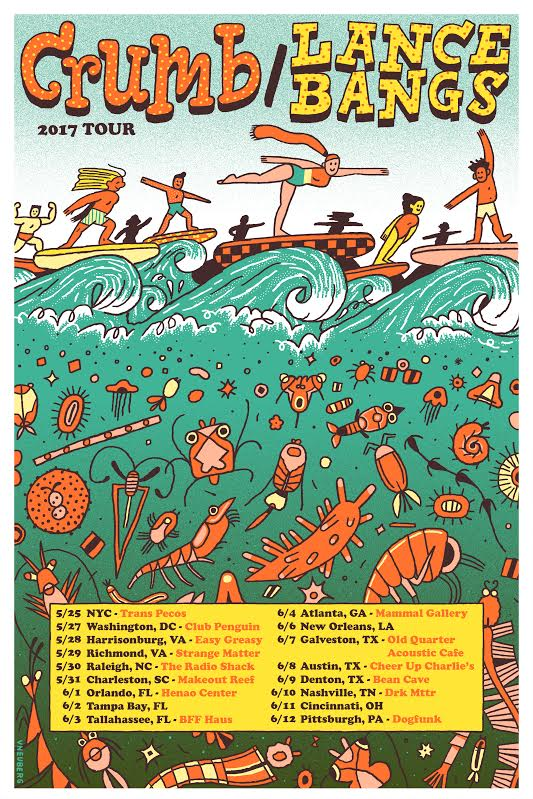
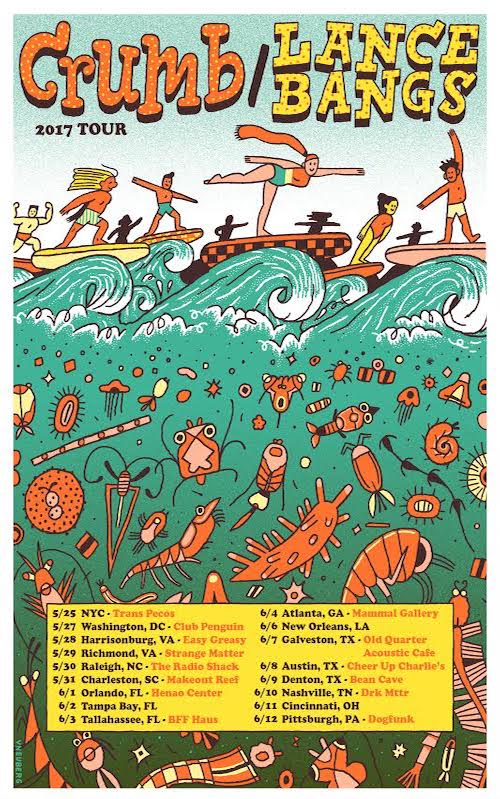
added cassette, resized images

diff --git a/index.html b/index.html
@@ -48,9 +48,11 @@
                 <iframe width="560" height="315" src="https://www.youtube.com/embed/BqnG_Ei35JE" frameborder="0" allow="autoplay; encrypted-media" allowfullscreen></iframe>
                 <h2>"Bones"</h2>
                 <iframe width="560" height="315" src="https://www.youtube.com/embed/nD3iG6m44g8" frameborder="0" allowfullscreen></iframe>
+                <h2 id="merch"><a target="_blank" href="https://citruscityrecords.bandcamp.com/album/crumb-locket">Crumb / Locket Double-Sided Tape</a></h2>
+                  <a style="display: block;" target="_blank" href="http://aintwet.nyc/product_info/5b23f32ddc79ef201a26c8cd"><img class="shirt" src='images/Crumb_cassette.png'/></a>
                 <h2><a target="_blank" href="https://citruscityrecords.bandcamp.com/album/crumb-locket">Crumb / Locket 12" Vinyl</a></h2>
                   <a style="display: block;" target="_blank" href="https://citruscityrecords.bandcamp.com/album/crumb-locket"><img class="shirt" src='images/vinyl.png'/></a>
-                <h2 id="merch"><a href="http://aintwet.nyc/show_product/5a9379994c600a79218f1d87">Shirts</a></h2>
+                <h2><a href="http://aintwet.nyc/show_product/5a9379994c600a79218f1d87">Shirts</a></h2>
                   <a style="display: block;" target="_blank" href="http://aintwet.nyc/product_info/5af5bd26c8cb8c41a202ce97"><img class="shirt" src='images/CRUMB_TOUR_SS_FRONT.png'/></a>
                   <a style="display: block;" target="_blank" href="http://aintwet.nyc/product_info/5af5bdb9c8cb8c41a202ce9a"><img class="shirt" src='images/CRUMB_TOUR_LS_back.png'/></a>
                   <a style="display: block;" target="_blank" href="http://aintwet.nyc/product_info/5a9399284c600a79218f1d8a"><img class="shirt" src='images/shirt-grey.png'/></a>
@@ -67,6 +69,7 @@
                 <!-- <img src='images/alex-hovvdy-crumb.jpg'/> -->
                 <img src='images/tourposter.jpg'/>
                 <img src='images/poster.jpg'/>
+                <p>+++</p>
                 <img src='images/orange.jpg'/>
                 <!-- <img src='images/pic26.jpg'/> -->
                 <img src="images/pic22.jpg"/>
@@ -74,7 +77,7 @@
                 <!-- <img src="images/pic24.jpg"/> -->
                 <!-- <img src='images/pic9.jpg'/> -->
                 <img src='images/dogs.jpg'/>
-                <img src='images/pic15.jpg'/>
+                <!-- <img src='images/pic15.jpg'/> -->
                 <img src="images/pic23.jpg"/>
 
              <!--    <img src="images/pic25.jpg"/>

diff --git a/index.js b/index.js
@@ -1,5 +1,4 @@
 $(document).ready(function (){
-	console.log('here');
 	$("#merchButton").click(function (){
 	    $('html, body').animate({
 	        scrollTop: $("#merch").offset().top
